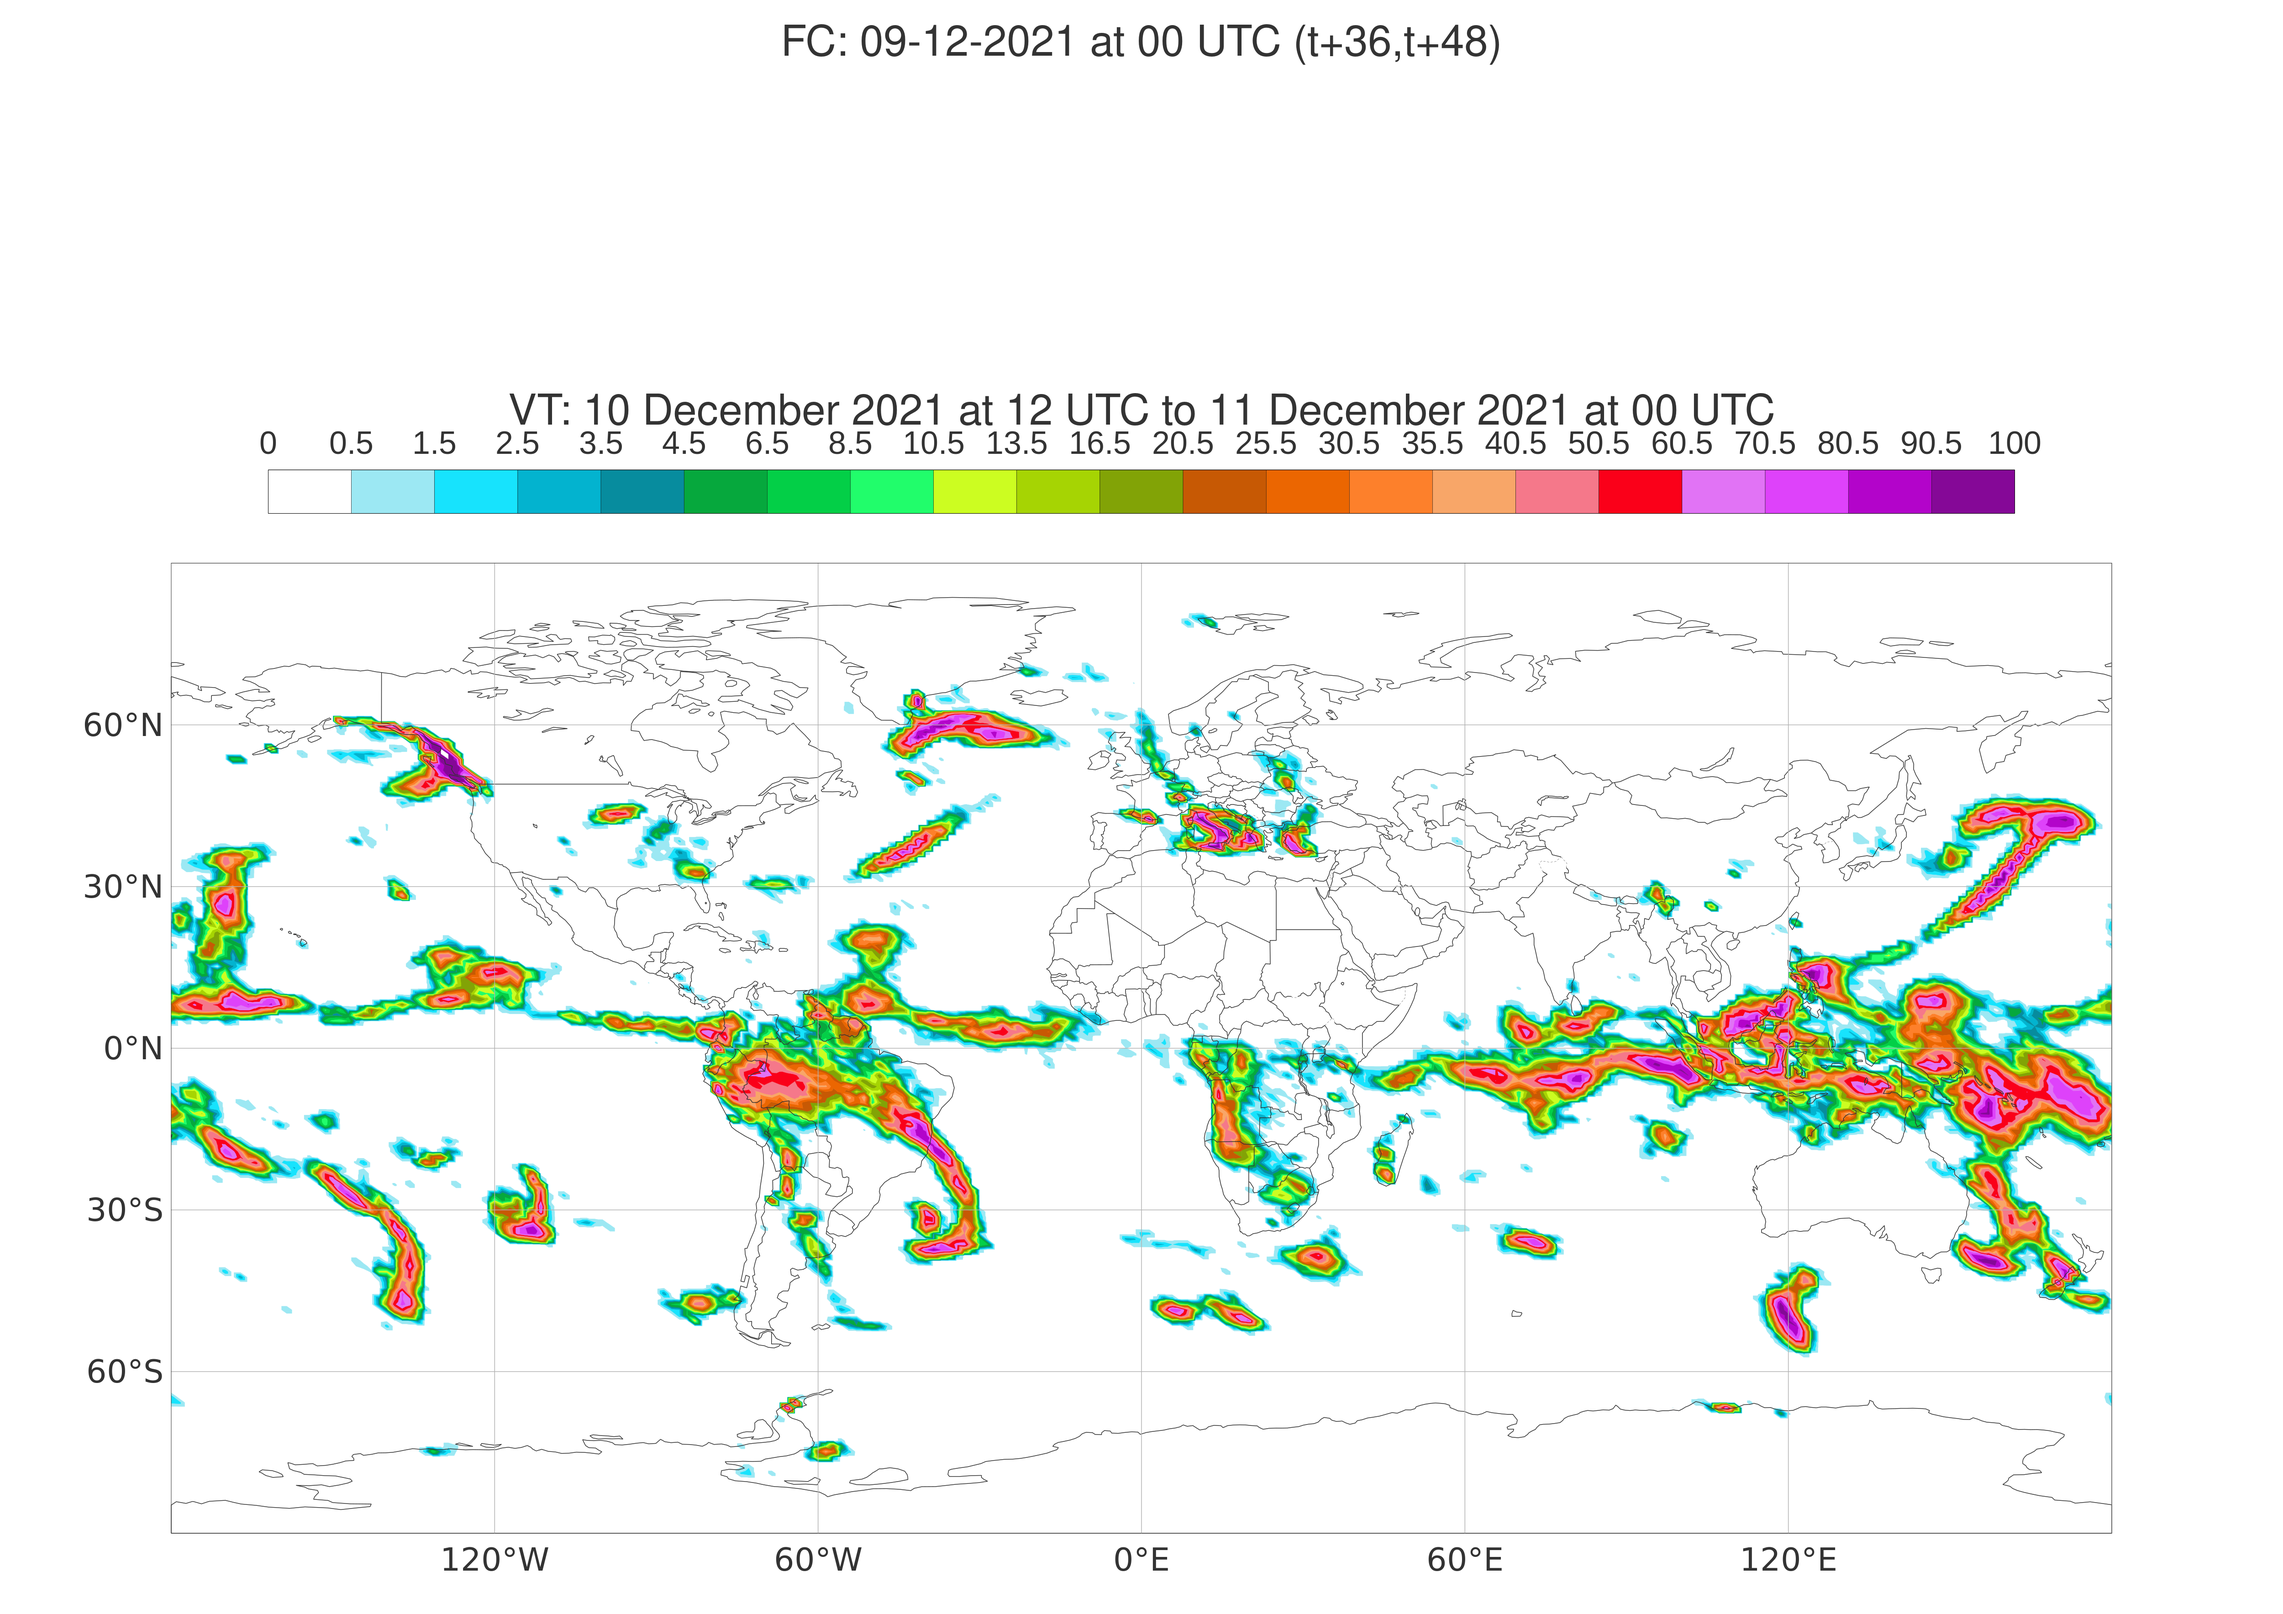
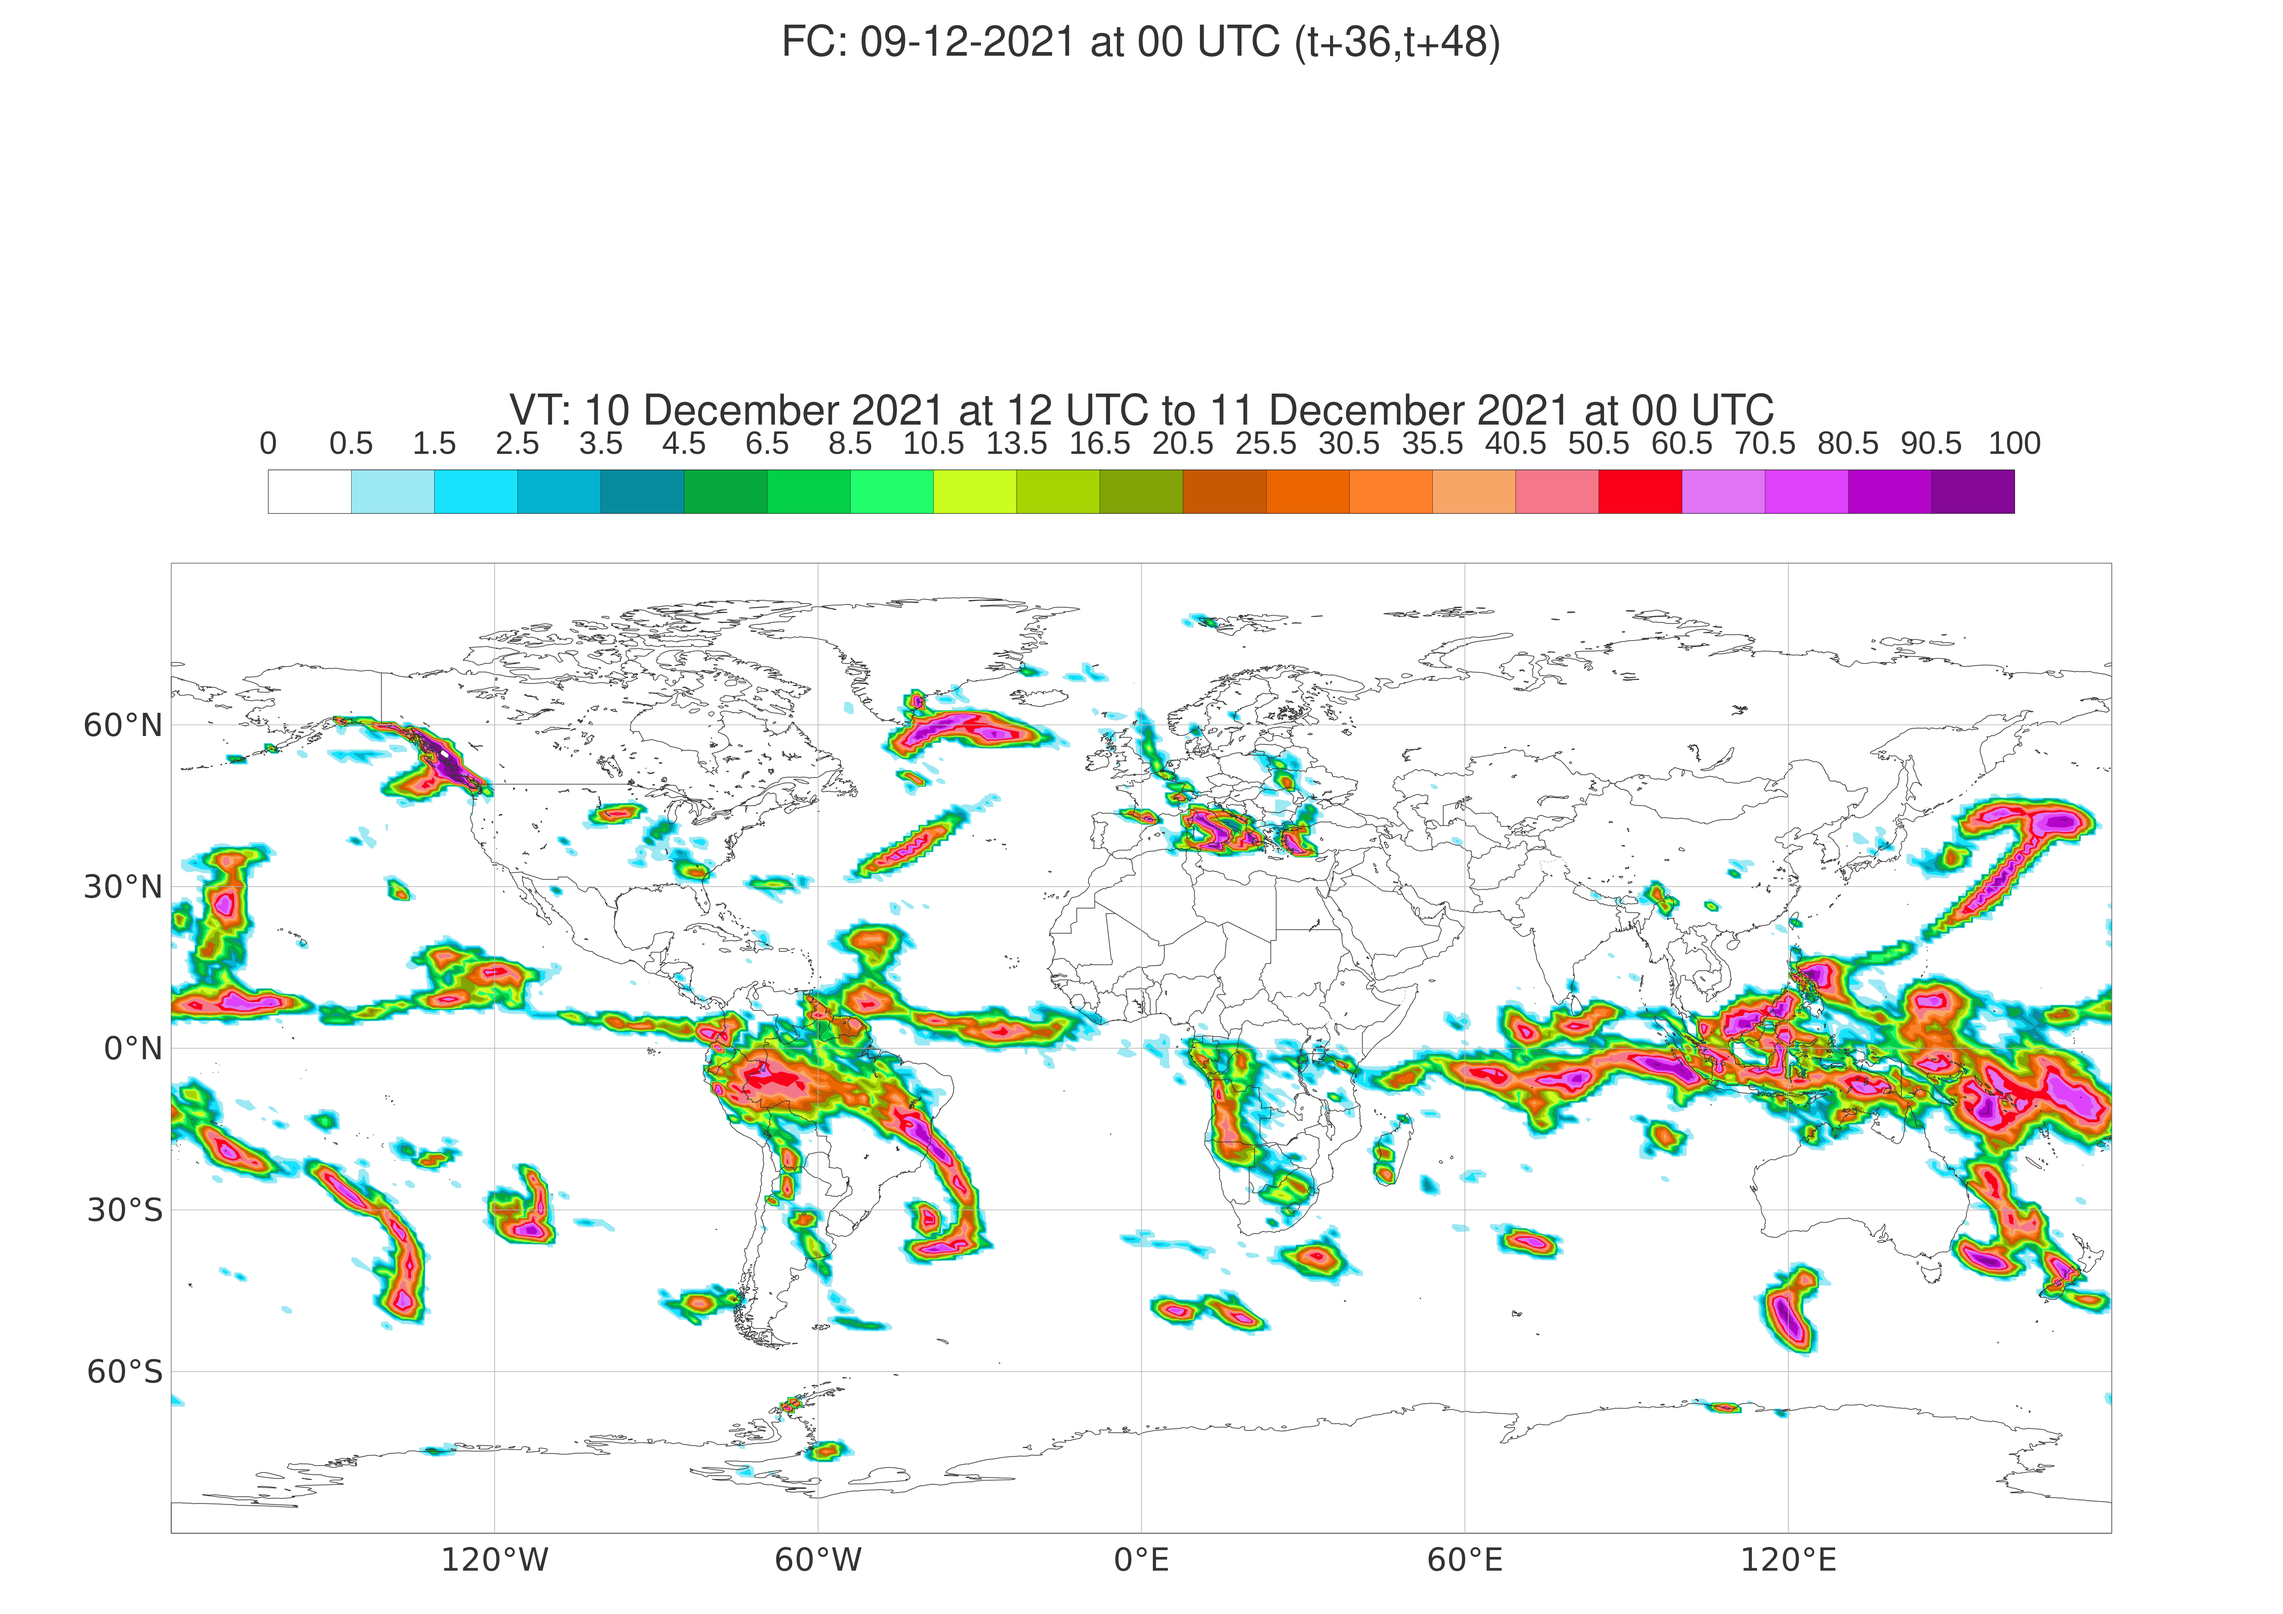
Created high-resolution probability map plots.

diff --git a/Scripts/Processed/10_Plot_ProbFC.py b/Scripts/Processed/10_Plot_ProbFC.py
@@ -58,7 +58,7 @@ for SystemFC in SystemFC_list:
       coastlines = mv.mcoast(
             map_coastline_colour = "charcoal",
             map_coastline_thickness = 3,
-            map_coastline_resolution = "low",
+            map_coastline_resolution = "medium",
             map_boundaries = "on",
             map_boundaries_colour = "charcoal",
             map_boundaries_thickness = 3,
